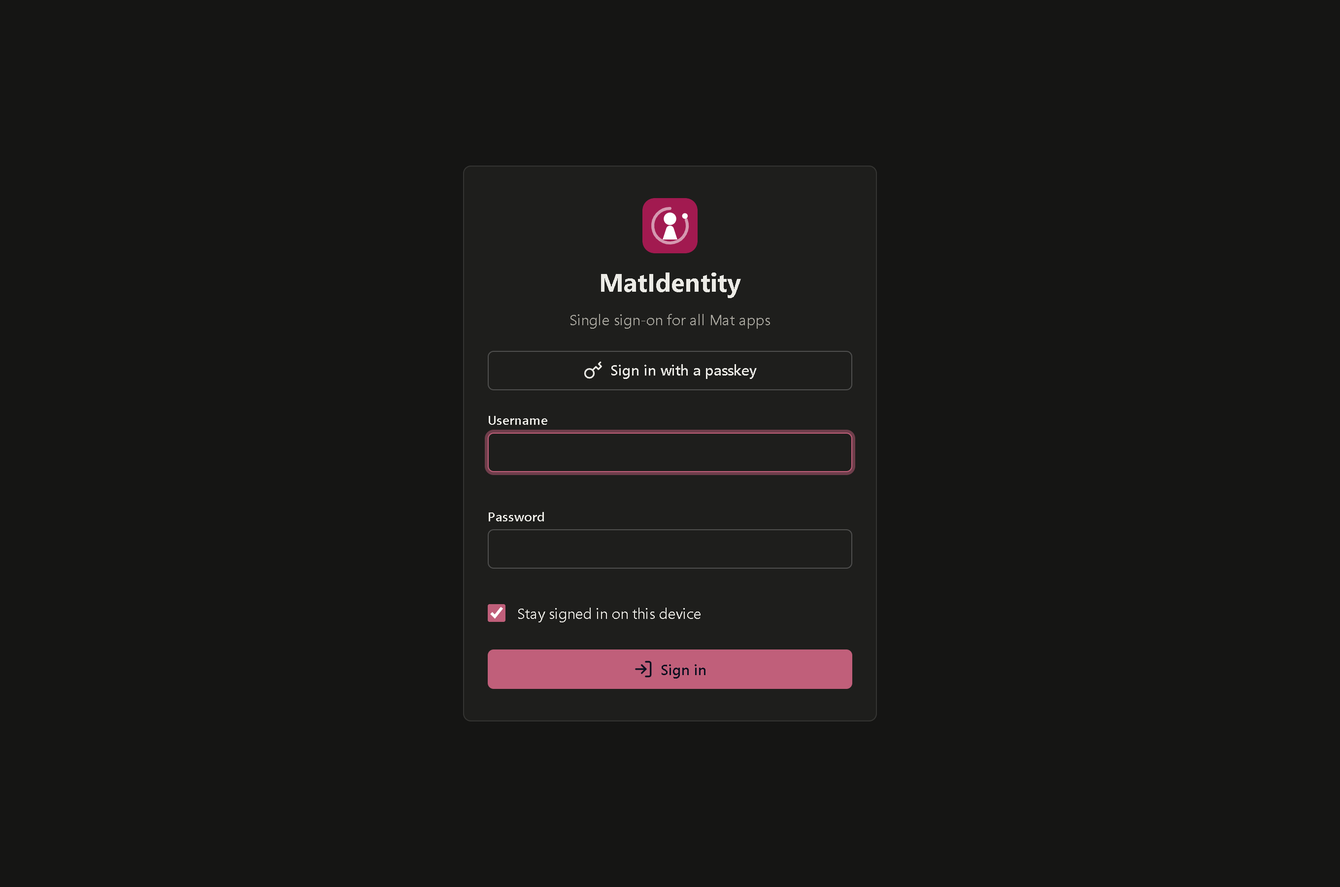
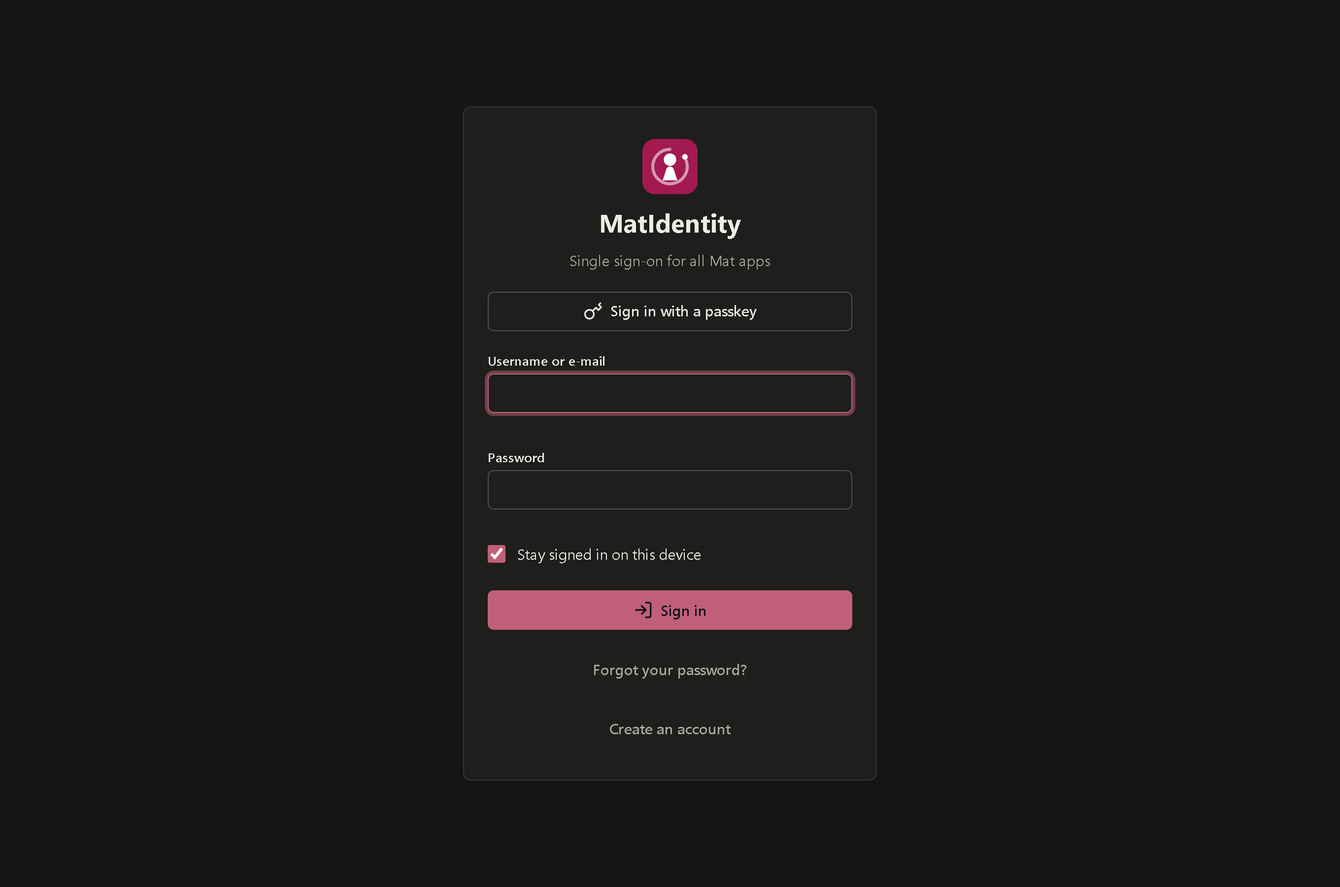
Docs: docs/REVIEW.md (findings, fixes, the gaps against Authentik, Authelia and Keycloak, what the apps need for back-channel logout), README (mail, invitations, forgotten passwords, registration, back-channel logout, the new variables, new screenshots with invented people), ARCHITECTURE (mail and i

diff --git a/README.md b/README.md
@@ -28,16 +28,24 @@ registers every app it installs here and gives it its sign-in.
 ## At a glance
 
 **Sign-in**
-- **OpenID Connect** with authorization code and **PKCE** (enforced), refresh tokens, sign-out at every app (end session)
+- **OpenID Connect** with authorization code and **PKCE** (enforced), rolling refresh tokens (a replayed one ends the whole sign-in), sign-out at every app (end session)
+- **Back-channel logout**: signing out here tells every app with a sign-out address, so its session ends too (`sid` in the ID token)
 - **Single sign-on**: a session here signs a person into the next app without the form
 - Sessions live in SQLite and **survive a restart**; a person sees their devices and signs out the others
-- The tokens carry `sub` (a stable UUID), `name`, `preferred_username`, `email` and the `role` **of the app** (see Permissions)
+- The tokens carry `sub` (a stable UUID), `name`, `preferred_username`, `email`, `email_verified` and the `role` **of the app** (see Permissions)
+- Sign in with the user name or the e-mail address; ten wrong passwords or codes in a row lock the account for 15 minutes
 
 **Second step (optional for everyone)**
 - **Authenticator app** (TOTP, RFC 6238) with a QR code and 10 **recovery codes**, shown once
 - **Passkeys** (WebAuthn: Windows Hello, Touch ID, phone, security key): sign in **without a password**, or use one as the second step after it
 - Whoever has an authenticator app or a passkey is asked for it after the password; five wrong codes and it starts again
 - An administrator sees who uses what and resets it when a phone is lost
+
+**Mail** (through MatSMTP, or an SMTP server of your own; without mail these are hidden)
+- **Forgotten password**: a link by mail, single-use, 30 minutes, the same answer for every name
+- **Invitations**: create a person, they get a mail and choose their password
+- **Confirmed e-mail addresses**: `email_verified` is true once the person followed a link to the address
+- **Self-registration** (off by default): the account works after the address is confirmed
 
 **Permissions**
 - **Groups** (Family, Guests): apps and roles for many people at once
@@ -52,8 +60,10 @@ registers every app it installs here and gives it its sign-in.
 - **Apps calling apps**: an app with *calls other apps* gets a token for `app:<id>` (client credentials) whose audience is the other app
 
 **Administration**
-- **People**: create, change, disable; a disabled account or a new password signs the person out **everywhere** (sessions and the refresh tokens of the apps)
-- **Activity**: sign-ins, failed sign-ins (a badge in the menu), app sign-ins, machine tokens, changes to apps; kept for 90 days
+- **People**: create or invite, change, disable; see where a person is signed in; a disabled account or a new password signs the person out **everywhere** (sessions, the refresh tokens of the apps, and the apps with a sign-out address)
+- **Password rules**: a shortest length, never the user name, never one of the passwords tried first
+- **Activity**: sign-ins, failed sign-ins (a badge in the menu), locked accounts, app sign-ins, machine tokens, and every change of an administrator (apps, people, groups, settings); kept for 90 days
+- **Configuration export**: settings, apps, access, groups and people as JSON, never a secret
 - **Sign everyone out**: the emergency button
 - Rate limits on the sign-in form, the token endpoint and the API; forwarded headers only from known proxies
 
@@ -75,9 +85,27 @@ The form every app sends people to. A passkey signs in without the password; who
 |---|---|
 | ![Signing in with a passkey](docs/images/login-passkey.png) | ![The code of the authenticator app after the password](docs/images/second-step.png) |
 
+### Mail: invitations, forgotten passwords, confirmed addresses
+
+With MatSMTP (Mattiverse sets it) or an SMTP server of your own, a new person gets an invitation and chooses the password; whoever forgot theirs
+asks for a link; a confirmed address becomes `email_verified` in the tokens. The person's page shows where they are signed in and ends it everywhere.
+
+| A new person, invited | The link of the invitation |
+|---|---|
+| ![A new person with an invitation](docs/images/person-invite.png) | ![Choosing the password of an invitation](docs/images/invitation-welcome.png) |
+
+| Forgot your password? | Creating an account (when it is on) |
+|---|---|
+| ![Asking for a link](docs/images/forgot.png) | ![Self-registration](docs/images/register.png) |
+
+| A person: devices and mail | Invited, not confirmed yet |
+|---|---|
+| ![Where a person is signed in, and a password link](docs/images/person-sessions.png) | ![An open invitation](docs/images/person-invited.png) |
+
 ### The apps
 
 Every app that signs in here, with its id, what it may do and who added it. *Managed by mattiverse* marks the apps Mattiverse registered when it installed them.
+An app with a sign-out address hears when a person signs out here (back-channel logout).
 
 ![The list of apps](docs/images/apps.png)
 
@@ -122,8 +150,8 @@ Their devices are listed too; one click signs out the others.
 
 ### Activity and settings
 
-Sign-ins, failed sign-ins, app sign-ins, machine tokens and every change to an app, kept for 90 days. The settings hold the public address,
-how long a sign-in lasts and the emergency button that signs everyone out.
+Sign-ins, failed sign-ins, app sign-ins, machine tokens and every change of an administrator, kept for 90 days. The settings hold the public address,
+how long a sign-in lasts, the password rules, registration, the mail (fixed when MatSMTP sends it), the configuration export and the emergency button.
 
 | Activity | Settings |
 |---|---|
@@ -247,6 +275,8 @@ Then, in *Access*, give the app to the people or groups who may open it. Any oth
 | `MAT_API_KEY` | – | The key of the platform API (`X-Api-Key`); Mattiverse sets it |
 | `MatIdentity__Admin__Seed` | `false` | Create the admin from `__Username` / `__Password` (headless installs; the password must be changed at the first sign-in) |
 | `MatIdentity__RateLimits__SignIn` | `20` | Sign-in attempts a minute per address |
+| `MatIdentity__RefreshTokenReuseLeewaySeconds` | `30` | How long a used refresh token may come again (an app renewing twice in parallel); later it is a replay and ends the sign-in |
+| `MATSMTP_HOST` / `_PORT` / `_USERNAME` / `_PASSWORD` / `_FROM` / `_TLS` | – | Mail through MatSMTP (Mattiverse sets them); without them the SMTP server of *Settings*, or no mail. `_TLS`: `none`, `starttls` or `tls` |
 | `MATIDENTITY_PORT` | `2300` | Host port in the compose files |
 
 ## Mat platform: API and the apps of the family
@@ -260,9 +290,9 @@ MatIdentity speaks the platform contract of the Mat apps (MatDesign [docs/PLATFO
 | `GET /api/state[/key]` | The values of the tiles |
 | `GET/PUT /api/configure` | The settings Mattiverse may change |
 | `POST /api/actions/{id}` | The buttons: sign everyone out (the links open MatIdentity and its apps) |
-| `/api/v1/clients` | The apps, for Mattiverse (create, change, remove what it created) |
+| `/api/v1/clients` | The apps, for Mattiverse (create, change, remove what it created); `backchannelLogoutUri` and `callTargets` are optional |
 
-Access with `X-Api-Key: <MAT_API_KEY>` or a token of MatIdentity whose audience is `app:matidentity`.
+Access with `X-Api-Key: <MAT_API_KEY>` or a token of MatIdentity whose audience is `app:matidentity` (an app gets that scope only by name, never through "calls every app").
 
 The apps use the shared .NET package **MatPlatform** of MatDesign for their side: the endpoints, the sign-in through MatIdentity (auto-login, `?local=1`
 for the local form, sign-out at MatIdentity, the scheme behind a TLS proxy) and the rule for existing accounts: an account of the app that has the
@@ -273,7 +303,7 @@ same address is linked only after the person signed in to it once with its own p
 ```
 /data
 ├─ matidentity.db         SQLite: people, sessions, groups, access, activity, and OpenIddict's apps, scopes, authorizations, tokens
-├─ config/system.json     JSON: name, public address, how long a sign-in lasts, the lifetime of an access token
+├─ config/system.json     JSON: name, public address, sign-in, password rules, registration, the own SMTP server (its password encrypted)
 ├─ dataprotection-keys/   the keys of the cookies (so sessions survive restarts)
 └─ token-keys/            the RSA key that signs the tokens and the key that encrypts codes and refresh tokens
 ```
@@ -315,6 +345,8 @@ platform key is `dev-key`.
 | The platform contract (`/api`, health, state, configure, actions) | ✅ |
 | Authenticator app (TOTP), recovery codes, passkeys (passwordless and as second step) | ✅ |
 | Groups, access and roles per app, which apps an app may call | ✅ |
+| Mail (MatSMTP or own SMTP): password reset, invitations, e-mail verification, self-registration | ✅ |
+| Back-channel logout, lockout per account, password rules, audit of administrators, configuration export | ✅ |
 | The apps of the family signing in through it (`MATIDENTITY_*`) | ✅ MatSplit, MatTrakr, MatPlay, MatBu, Matdo, MatFile, MatPaper, MatDock, Matcad, Matddns · MatMail in progress |
 
 ## License

diff --git a/docs/REVIEW.md b/docs/REVIEW.md
@@ -1,0 +1,82 @@
+# Review (October 2026)
+
+A review of MatIdentity against what a small self-hosted identity provider is expected to do (Authentik, Authelia, Keycloak): every page in light, dark
+and at 390 px, a security review of the OpenID Connect endpoints, and the gaps that were closed. Branch `feature/review`.
+
+## Findings and fixes
+
+### Security
+
+| # | Finding | Fix |
+|---|---|---|
+| 1 | **Open redirect after a passkey sign-in:** `/api/passkeys/signin` accepted `returnUrl` values like `/\evil.example` (only `//` was refused); browsers read them as another host. | `LocalUrl` follows the rule of `Url.IsLocalUrl` (tests). |
+| 2 | **Sign-out by link:** a plain `GET /connect/logout` from any site ended the session (logout CSRF). | Without an `id_token_hint` of the signed-in person the person confirms on `/Account/Logout` first and goes on to the app afterwards; with it, out at once (test). `/Account/Logout` GET asks too. |
+| 3 | **"Calls every app" included MatIdentity's own API** (`app:matidentity`): any app with that rule could create apps, renew their secrets and change the settings through `/api/v1/clients` and `/api/configure`. | `app:matidentity` is given by name only (page, `callTargets` in the client API); the scopes of existing apps are synced at start (test). Mattiverse uses `X-Api-Key` and is not affected. |
+| 4 | **Brute force per account:** only per address (20/min); with a known password the five-code limit of the second step could be restarted forever. | Ten wrong passwords or codes in a row lock the password sign-in for 15 minutes, with the same answer as a wrong password; the count resets only after a complete sign-in (test). |
+| 5 | **Password reset poisoning** (new feature, avoided by design): a reset link built from the `Host` header would point to the attacker's host. | "Forgot your password?" is offered only with a public address (Settings or `MatIdentity__Issuer`); its links use only that. |
+| 6 | Refresh token reuse: OpenIddict rolls refresh tokens and revokes the chain when a used one comes back, but nothing held it. | A test holds it; the leeway (30 s, for apps renewing twice in parallel) is a setting (`MatIdentity__RefreshTokenReuseLeewaySeconds`). |
+| 7 | `email_verified` was always `false` – an app could not tell a proven address from a typed one (the account-linking rule of MatPlatform relies on the address). | Verification by mail; the claim is the account's (see below). |
+| 8 | A new theme or a password change rewrote the cookie as a session cookie: "Stay signed in" was lost. | `SignInFlow.RenewCookieAsync` keeps it. |
+| 9 | Public apps could not revoke their own tokens. | Revocation allowed for every app; introspection stays for apps with a secret. |
+
+Checked and fine: exact redirect URI matching and PKCE (S256) for every app (OpenIddict, tests); client secrets hashed by OpenIddict and shown once;
+`returnUrl` of the sign-in, second step and account pages through `Url.IsLocalUrl`; anti-forgery on every form and on the passkey and theme endpoints;
+constant-time API key; forwarded headers only from known proxies; rate limits on sign-in, token and anonymous API; TOTP (±1 step, no reuse, encrypted
+secret, hashed recovery codes); passkeys (user verification required, ceremony state on the server, used once, user handle checked); the person and the
+app's rules are read again at every token request; no secret in logs, cookies or the activity list.
+
+Remaining notes (accepted): the passkey relying party is the host of the request (changing the public address loses passkeys, documented); `http`
+redirect URIs are allowed (home networks); access tokens are not revoked before they expire (30 minutes by default).
+
+### Pages and texts
+
+- Second step for a person with passkeys only: the page offered a recovery code field although such a person has none (dead end). Now: the passkey, and a
+  hint that an administrator can reset the second step. "Cancel" keeps the app's request.
+- Sign-in: "Username or e-mail" (both work, case does not matter), "Forgot your password?" and "Create an account" when they are on.
+- The two account pages had a subtitle that did not name the second step; the Settings subtitle names the mail; placeholders use one example address.
+- A "Second step reset" was written as "Signed out" in the activity list; the activity now names the administrator as *who* and the person as detail.
+- Empty states and 390 px checked for every new page (no horizontal overflow).
+
+## Gaps against the yardstick
+
+| Feature | Before | Now | Size | Note |
+|---|---|---|---|---|
+| OIDC: discovery, code + PKCE, refresh, client credentials, user info, revocation, introspection | has | has | – | |
+| Refresh token rotation and reuse detection | partly (untested) | has | S | test, leeway setting |
+| RP-initiated logout | has | has | – | CSRF fixed |
+| Back-channel logout (OIDC Back-Channel Logout 1.0) | missing | has | M | `sid` in the ID token, logout tokens to the apps |
+| Front-channel logout | missing | dropped | – | the iframes need third-party cookies, which browsers block; back-channel reaches the apps reliably |
+| Consent screen | missing | dropped | – | every app is added by an administrator (no dynamic registration): that is the consent |
+| Password policy | partly (8 characters) | has | S | length setting, not the name, not a common password |
+| Brute-force protection per address | has | has | – | |
+| Brute-force protection per account | missing | has | S | lockout 10 / 15 min |
+| TOTP, recovery codes, passkeys | has | has | – | passkey-only dead end fixed |
+| Self-service password reset by mail | missing | has | M | single-use, 30 min, hashed, no enumeration |
+| Invitations by mail | missing | has | S | 7 days |
+| E-mail verification, `email_verified` | missing | has | S | |
+| Self-registration (off by default) | missing | has | M | needs mail and the public address; account works after confirmation |
+| Mail (MatSMTP or own SMTP) | missing | has | M | MatPlatform 1.3.0 |
+| Groups and per-app access, roles | has | has | – | |
+| Admin audit log | partly (apps only) | has | S | people, groups, settings, exports |
+| Session management | partly (own devices) | has | S | administrators see and end a person's sessions |
+| Branding | partly (name) | partly | – | logo/colours stay the family's (MatUi) |
+| Health endpoint | has | has | – | `/api/health` |
+| Configuration export | missing | has | S | JSON without secrets; the backup is the volume |
+| Configuration import | missing | missing | L | restore = the volume; an import would need secrets and keys anyway |
+| External identity providers (Google, Entra …) | missing | missing | L | outside the purpose today (the family's own sign-in) |
+| LDAP / SCIM | missing | missing | L | no app of the family needs it |
+
+## What the apps need for back-channel logout
+
+MatPlatform (MatDesign `src/MatPlatform/MatIdentitySignIn.cs`, 1.3.0) signs people in with the OpenID Connect handler and keeps only the ID token for the
+sign-out; it has no back-channel endpoint, so an app keeps its own cookie until it expires. To end it when MatIdentity says so, MatPlatform needs:
+
+1. An endpoint `POST /signout-backchannel` (form field `logout_token`), anonymous, no anti-forgery.
+2. Validation of the logout token with the JWKS of the authority (through `MATIDENTITY_INTERNAL_URL` like the other calls): `typ` = `logout+jwt`, `iss` = the
+   authority, `aud` = the client id, `iat` recent, an `events` claim with `http://schemas.openid.net/event/backchannel-logout`, `sub` and/or `sid`, no `nonce`;
+   a `jti` replay cache of a few minutes. Answer `200`, or `400` for a bad token.
+3. Ending the sessions: keep the `sid` claim of the ID token with the local session (`MatIdentityPerson.Principal` has it) and, per local user, a "signed out at"
+   time; `IMatIdentityUsers` gets a method like `SignOutAsync(subject, sid)`, and the cookie's `OnValidatePrincipal` rejects a session started before that time
+   (or matching the `sid`).
+4. Registration: Mattiverse passes `backchannelLogoutUri` (the app's internal address, e.g. `http://mattiverse-matsplit:8080/signout-backchannel`) in
+   `PUT /api/v1/clients/{id}` – MatIdentity accepts it already.

diff --git a/CLAUDE.md b/CLAUDE.md
@@ -21,8 +21,10 @@ rulebook. The accent is `#a21a50` (registered in MatDesign's `AppRegistry`; `#9d
 - **Build:** `dotnet build MatIdentity.slnx` (note: `.slnx`). SDK 10 (see `global.json`). Expected: 0 warnings.
 - **Tests:** `dotnet test`: xunit. `ClientRulesTests` (rules without the site), `MigrationLockTests` (a stale EF migration lock is removed at start),
   `WebUiTests` (the source of the pages: icons of the sprite, no inline style or script, tokens only in the stylesheet), and the whole site in memory (`IdentityFactory`, a `WebApplicationFactory` on its own temp data folder, Development, key `test-key-…`):
-  `OidcFlowTests` (discovery, code + PKCE end to end with the real sign-in form, single sign-on, refresh, machine tokens and audiences, wrong secret = 401)
-  and `PlatformApiTests` (the contract, access, configure, the client API, every page opens). The site tests share one collection (environment variables).
+  `OidcFlowTests` (discovery, code + PKCE end to end with the real sign-in form, single sign-on, refresh and its reuse, sign-out with and without id_token_hint, machine tokens
+  and audiences, wrong secret = 401), `PlatformApiTests` (the contract, access, configure, the client API, every page opens), `MailTests`, `AccountMailTests`, `RegistrationTests`,
+  `BackchannelLogoutTests`, `LockoutTests`, `AuditTests`, `ExportTests`. The site runs with `MATSMTP_*` and a public address; its mail and back-channel requests are recorded
+  (`RecordingMailTransport`, `RecordingHttpHandler`), nothing leaves the test. The site tests share one collection (environment variables).
 - **Run / test the app: always rebuild the container and redeploy the stack** (project rule): `./scripts/redeploy.ps1` (`-Fresh` wipes the volume and with it the token keys,
   `-Port` changes the host port). Dev stack: `docker-compose.dev.yml` (app + `sqlite-web` on 2309, subnet `10.253.24.0/24` because the PC has its Docker address pools used up).
   In `Development` the account `admin@example.com` / `Start12345` exists and `MAT_API_KEY` is `dev-key`.
@@ -39,18 +41,21 @@ rulebook. The accent is `#a21a50` (registered in MatDesign's `AppRegistry`; `#9d
 
 ```
 src/MatIdentity.Core       domain, no web types
-  Entities/ Data/            User (Subject = the claim sub), UserSession, ActivityEntry; DbContext (+ OpenIddict's tables Oidc*), migrations
-  Auth/ Users/ Security/     sign-in, sessions in SQLite, TwoFactorService (TOTP, recovery codes), PasskeyService, Totp (RFC 6238), PBKDF2 hasher, secret protector
+  Entities/ Data/            User (Subject = the claim sub), UserSession, ActivityEntry, AccountToken (links in mails, hashed); DbContext (+ OpenIddict's tables Oidc*), migrations
+  Auth/ Users/ Security/     sign-in and lockout, sessions in SQLite (ISessionEndListener, sid), TwoFactorService, PasskeyService, Totp, PBKDF2 hasher, secret protector;
+                             AccountTokenService + AccountMailService (reset, invitation, verification, registration), PasswordPolicy
+  Mail/                      MailService (MatSMTP or own SMTP), MailKit transport, MailQueue, MailTemplates
   Access/                    PermissionService (who may sign in where, with which role; app roles; which apps an app may call), GroupService
   Clients/                   ClientModels (ClientInfo, ClientRules), ClientService (the apps over OpenIddict, their scopes app:<id>), TokenRevoker
   Activity/                  ActivityService (the activity list, 90 days)
-  Configuration/             options, AppPaths, JsonConfigStore, SystemConfig(+Service: the settings and their rules)
+  Configuration/             options, AppPaths, JsonConfigStore, SystemConfig(+Service: the settings and their rules), ConfigurationExport (JSON without secrets)
 src/MatIdentity.Web        Razor Pages, controls, endpoints, Program.cs (OpenIddict, cookie, rate limits, forwarded headers)
-  Infrastructure/            OidcEndpoints (authorize, token, userinfo, logout), SignInFlow (the end of every sign-in, the second step), PasskeyEndpoints (WebAuthn), TokenKeys, ApiAccess (X-Api-Key or token for app:matidentity),
+  Infrastructure/            OidcEndpoints (authorize, token, userinfo, logout), BackchannelLogout (logout tokens to the apps), LocalUrl, SignInFlow (the end of every sign-in, the second step), PasskeyEndpoints (WebAuthn), TokenKeys, ApiAccess (X-Api-Key or token for app:matidentity),
                              ClientApiEndpoints (/api/v1/clients for Mattiverse), RateLimits, session validation, setup and password guards, health check
+  MatPlatform/               a copy of MatDesign's MatPlatform 1.3.0 (tools/matplatform-copy.js; never edit here): MatSmtpSettings
   Platform/                  MatApiDefinition (the contract's types), PlatformEndpoints (/api, health, state, configure, actions), IdentityPlatform (MatIdentity's part)
   Pages/                     Index (your apps; figures for an administrator), Apps/ (Edit, Access), Users/ (People), Groups/, Activity/, Settings/, Account/ (Login, TwoFactor,
-                             NoAccess, Logout, Profile: general, password, devices; Security: authenticator app, recovery codes, passkeys), Setup, StatusCode (also the errors of the protocol), Error
+                             NoAccess, Logout, Forgot, Reset, Verify, Register, Profile: general, password, devices; Security: authenticator app, recovery codes, passkeys), Setup, StatusCode (also the errors of the protocol), Error
   Support/ Controls/         Ui (icons, logo, app letters and hues), Navigation, Crumbs, Format, Authority, Toolkit; tag helpers (mat-field, icon, tab-bar), ListModels
   wwwroot/                   matui/ (the toolkit, a copy), css/matidentity.css (mi-* only), js/matidentity.js, img/ (logo, favicon, PWA icons), manifest
 tests/MatIdentity.Tests     unit tests + the site in memory
@@ -63,6 +68,8 @@ tests/MatIdentity.Tests     unit tests + the site in memory
 - A secret is never written in plain text anywhere: not in the database (OpenIddict hashes it), not in a cookie or TempData (a new secret is shown on the page of the POST
   itself), not in the activity list or a log.
 - No DbContext, no EF Core and no SQL in MatIdentity.Web (`WebUiTests` checks; only Program.cs registers the context): the pages and endpoints call the services of Core.
+- Links in mails only from the public address (`Authority.PublicAsync`) when anybody can ask for them; mail anybody can trigger goes through `MailQueue`.
+- Every new password goes through `PasswordPolicy`; every end of a session through `SessionService` (it tells the apps).
 - The sign-in limit (20 attempts a minute per address) counts POSTs only; `MatIdentity__RateLimits__SignIn` changes it (the tests raise it).
 - Whatever ends a person's access ends it everywhere: sessions here (`SessionService.InvalidateAllAsync`) **and** the refresh tokens of the apps (`TokenRevoker`).
 - The page and the API share their rules (`ClientRules`, `SystemConfigService`): never check a value only in one of them.

diff --git a/docs/ARCHITECTURE.md b/docs/ARCHITECTURE.md
@@ -29,7 +29,8 @@ protocol becomes the page `StatusCode` with the error in words, because a reques
   256-bit key for the encryption. Losing them signs every app out; whoever has them can make tokens for every app.
 - The audience of a token is the app it is for. A person's access token is for the app that asked (`aud` = its client id). A machine asks for the scope
   `app:<id>` and gets the audience `<id>`. Every app has such a scope (`ClientService.EnsureAppScopeAsync`); an app that may call others gets the scopes of
-  all apps, also of the ones added later. MatIdentity's own API is `app:matidentity`.
+  all apps, also of the ones added later. MatIdentity's own API is `app:matidentity`: it can change the apps and their secrets, so it is never part of
+  "every app" and is given to an app by name only.
 - Ending sign-ins: `TokenRevoker` revokes the refresh tokens of a person (disabled, deleted, new password, "sign out on other devices") or of everyone.
   Access tokens are short (30 minutes by default) and are not revoked.
 
@@ -85,3 +86,30 @@ was right; five wrong codes and the person starts again. `SignInFlow.CompleteAsy
   passkey belongs to the public address of MatIdentity: changing that address loses the passkeys. The options of a ceremony stay on the server (two minutes,
   used once). The browser side is `wwwroot/js/matidentity.js`.
 - An administrator resets the second step of a person (authenticator off, passkeys removed) when a device is lost.
+
+## Mail and the links in it
+
+`Core/Mail/MailService` sends through **MatSMTP** when the environment names it (`MATSMTP_*`, read by MatPlatform's `MatSmtpSettings`, a copy in
+`src/MatIdentity.Web/MatPlatform/`, never edited here) and the own SMTP settings are then fixed (page and `/api/configure`); else through the SMTP server of
+the settings (its password encrypted with Data Protection); else there is no mail and every feature that needs it is hidden. Mail that anybody can trigger
+goes out after the answer (`MailQueue`), so an existing account does not answer slower than an unknown one.
+
+`AccountToken` is the key behind a link: 256 random bits, only its SHA-256 hash stored, used once, a new one replaces the old. Purposes: password reset
+(30 minutes, at most three an hour per account), invitation (7 days), e-mail verification (48 hours; it confirms only the address it was sent to, a new
+address is unconfirmed again). "Forgot your password?" and self-registration are offered only with a **public address**: their links never use the `Host`
+of a request (reset poisoning). A password set by link ends every other sign-in and counts as confirming the address. Self-registration (off by default)
+makes a disabled account that works after the confirmation; unconfirmed ones are removed after 7 days.
+
+## Sign-out reaches the apps
+
+OpenID Connect Back-Channel Logout 1.0. The ID token carries `sid`, the public id of the session (`SessionIds.Of`: a hash of the session token, never the
+token). A session remembers the apps it signed in to (`UserSession.ClientIds`). Whenever sessions end, `SessionService` tells its `ISessionEndListener`;
+the web project's `BackchannelLogout` sends every app with a sign-out address (`BackchannelLogoutUri`) a logout token (JWT `logout+jwt`, signed with the key
+of the ID tokens, `iss`, `aud`, `sub`, `sid`, `events`, `jti`, two minutes) after the answer; a person out everywhere (disabled, new password set by an
+administrator, signed out by one) is announced to every such app with `sub` alone. Front-channel logout is not offered: its iframes need third-party
+cookies. A `GET /connect/logout` without the person's `id_token_hint` asks first (a link from another site must not sign anyone out).
+
+## Brute force
+
+Per address: the rate limits. Per account: ten wrong passwords or second-step codes in a row lock the password sign-in for 15 minutes; the answer stays
+"Incorrect username or password", so a right password does not show through. The count resets only after a complete sign-in. A passkey alone still signs in.
